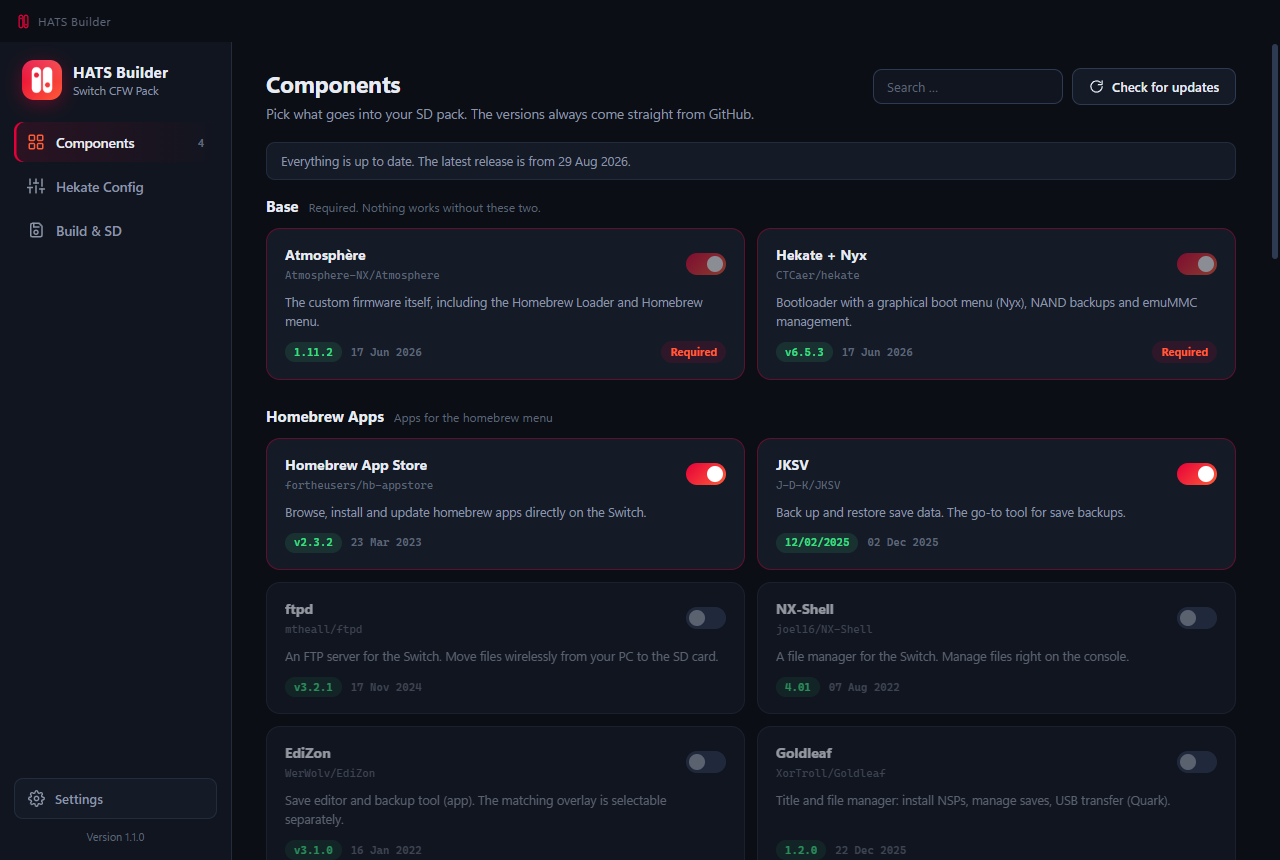
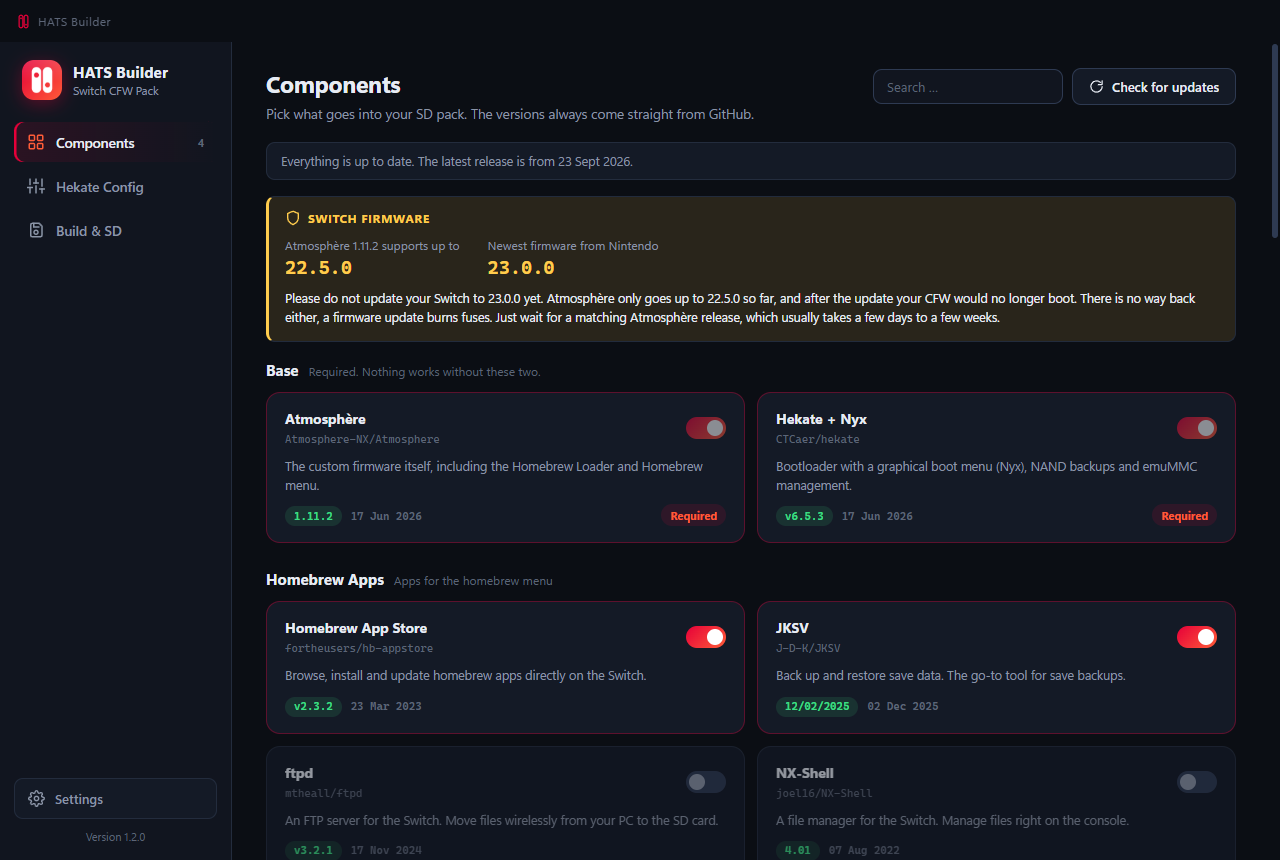
Firmware-Abgleich: zeigt, bis zu welcher Switch-Firmware Atmosphere reicht und was aktuell ist; Version 1.2.0
Ganz oben in der Komponenten-Ansicht steht jetzt ein Kasten mit zwei Zahlen:
bis zu welcher HOS-Version das aktuelle Atmosphere reicht, und welche Firmware
Nintendo zuletzt veroeffentlicht hat. Hinkt Atmosphere hinterher, wird daraus
eine Warnung mit dem Hinweis, die Konsole jetzt noch nicht zu aktualisieren.
Das ist keine Kleinigkeit: Ein Firmware-Update verbrennt Fuses und laesst sich
nicht zuruecknehmen, die CFW startet danach nicht mehr.

Die unterstuetzte Version steht in keinem maschinenlesbaren Feld, auch nicht
mehr im README von Atmosphere. Sie wird deshalb aus dem Release-Text gelesen,
wo seit jeher "Support was added for X.Y.Z." steht. parseSupportedHos nimmt
das Maximum aller Treffer, weil der Text auch aeltere Changelog-Abschnitte
mit aelteren Firmware-Nummern enthaelt.

Die neueste Firmware kommt aus dem Release-Tag von THZoria/NX_Firmware. Es
wird ausschliesslich die Versionsnummer ueber die API gelesen, nichts
heruntergeladen und nichts mitgeliefert.

Beide Abfragen laufen ueber die vorhandene GitHub-Schicht, profitieren also
von Cache und ETag. Scheitert eine davon, wird der andere Teil trotzdem
gezeigt, statt den Kasten ganz auszublenden.

Nebenbei ist der Versionsvergleich nach main/version.js gewandert, weil ihn
jetzt Updater und Firmware-Pruefung brauchen. updater.js exportiert isNewer
und parseVersion unveraendert weiter.

diff --git a/main/firmware.js b/main/firmware.js
@@ -1,0 +1,75 @@
+'use strict';
+
+// Vergleicht, bis zu welcher Switch-Firmware (HOS) Atmosphère reicht, mit der
+// Firmware, die Nintendo zuletzt veröffentlicht hat.
+//
+// Warum das wichtig ist: Atmosphère hinkt einer neuen Firmware immer ein paar
+// Tage bis Wochen hinterher. Wer seine Switch vorher aktualisiert, steht ohne
+// laufende CFW da, und zurück geht es nicht ohne Weiteres, weil ein Update
+// Fuses verbrennt. Die Zahl gehört also vor den Augen des Nutzers, bevor er
+// am Gerät etwas aktualisiert.
+//
+// Woher die beiden Angaben kommen:
+//   Atmosphère – aus dem Text des neuesten Releases. Das Projekt schreibt dort
+//                seit jeher "Support was added for X.Y.Z." Ein eigenes Feld
+//                dafür gibt es nicht, und das README nennt die Version nicht
+//                mehr. Deshalb der Griff in den Fließtext.
+//   Firmware   – aus dem Release-Tag von THZoria/NX_Firmware. Dort wird jede
+//                Firmware kurz nach Erscheinen als Release angelegt. Wir lesen
+//                ausschließlich die Versionsnummer über die API, es wird nichts
+//                heruntergeladen und nichts mitgeliefert.
+
+const github = require('./github');
+const { isNewer } = require('./version');
+
+const ATMOSPHERE_REPO = 'Atmosphere-NX/Atmosphere';
+const FIRMWARE_REPO = 'THZoria/NX_Firmware';
+
+// Holt die höchste Firmware-Version aus dem Release-Text heraus.
+// Der Text listet auch ältere Abschnitte auf ("And the following was changed
+// in 1.11.0"), darin stehen ältere Firmwares. Deshalb das Maximum und nicht
+// einfach den ersten Treffer.
+function parseSupportedHos(body) {
+  const treffer = String(body || '').matchAll(/support\s+was\s+added\s+for\s+(\d+\.\d+(?:\.\d+)?)/gi);
+  let hoechste = null;
+  for (const t of treffer) {
+    if (!hoechste || isNewer(t[1], hoechste)) hoechste = t[1];
+  }
+  return hoechste;
+}
+
+// Liefert den Stand für die Oberfläche. Schlägt eine der beiden Abfragen fehl,
+// wird der jeweils andere Teil trotzdem gemeldet, statt gar nichts zu zeigen.
+async function check({ force = false } = {}) {
+  const ergebnis = {
+    atmosphere: null, // Version von Atmosphère selbst
+    supported: null,  // höchste HOS-Version, die Atmosphère unterstützt
+    latest: null,     // neueste von Nintendo veröffentlichte HOS-Version
+    latestDate: null,
+    behind: false,    // true, wenn Atmosphère der Firmware hinterherhinkt
+  };
+
+  try {
+    const atmo = await github.fetchLatestRelease(ATMOSPHERE_REPO, { force });
+    ergebnis.atmosphere = atmo.tag || null;
+    ergebnis.supported = parseSupportedHos(atmo.body);
+  } catch {
+    /* ohne Atmosphère-Release bleibt der Abschnitt leer */
+  }
+
+  try {
+    const fw = await github.fetchLatestRelease(FIRMWARE_REPO, { force });
+    // Tags sind dort schlicht "23.0.0", ein führendes v kommt aber vor
+    ergebnis.latest = (fw.tag || '').replace(/^v/i, '') || null;
+    ergebnis.latestDate = fw.publishedAt || null;
+  } catch {
+    /* Firmware-Stand unbekannt, dann eben nur die unterstützte Version */
+  }
+
+  ergebnis.behind = Boolean(
+    ergebnis.supported && ergebnis.latest && isNewer(ergebnis.latest, ergebnis.supported)
+  );
+  return ergebnis;
+}
+
+module.exports = { check, parseSupportedHos, ATMOSPHERE_REPO, FIRMWARE_REPO };

diff --git a/renderer/app.js b/renderer/app.js
@@ -10,6 +10,7 @@ const state = {
   entryHints: {},
   settings: null,
   releases: {},
+  hos: null,
   building: false,
   copying: false,
   drives: [],
@@ -86,6 +87,7 @@ function setLanguage(lang) {
   // Alle dynamisch erzeugten Bereiche neu aufbauen
   renderComponents();
   renderReleaseStatus();
+  renderHos();
   renderHekate();
   renderBuildSummary();
   renderDrives();
@@ -321,6 +323,42 @@ function renderReleaseStatus() {
       .sort((a, b) => b.publishedAt.localeCompare(a.publishedAt))[0];
     status.textContent = newest ? t('status.allCurrent', fmtDate(newest.publishedAt)) : t('status.allCurrentNoDate');
   }
+}
+
+// ── Firmware-Abgleich ───────────────────────────────────────────────────────
+// Zeigt, bis zu welcher Switch-Firmware Atmosphère reicht und was Nintendo
+// zuletzt veröffentlicht hat. Hinkt Atmosphère hinterher, wird daraus eine
+// Warnung, denn ein Firmware-Update verbrennt Fuses und lässt sich nicht
+// zurücknehmen.
+function renderHos() {
+  const panel = $('#hos-panel');
+  const info = state.hos;
+  // Ohne wenigstens eine der beiden Zahlen sagt der Kasten nichts Nützliches
+  if (!info || (!info.supported && !info.latest)) {
+    panel.hidden = true;
+    return;
+  }
+  panel.hidden = false;
+  panel.classList.toggle('warn', Boolean(info.behind));
+
+  $('#hos-supported-label').textContent = info.atmosphere
+    ? t('hos.supportedLabel', info.atmosphere)
+    : t('hos.supportedLabelPlain');
+  $('#hos-supported').textContent = info.supported || t('hos.unknown');
+  $('#hos-latest').textContent = info.latest || t('hos.unknown');
+
+  if (info.behind) $('#hos-hint').textContent = t('hos.behind', info.latest, info.supported);
+  else if (info.supported && info.latest) $('#hos-hint').textContent = t('hos.ok');
+  else $('#hos-hint').textContent = t('hos.partial');
+}
+
+async function checkHos(force) {
+  try {
+    state.hos = await api.checkHos(force);
+  } catch {
+    state.hos = null;
+  }
+  renderHos();
 }
 
 async function checkReleases(force) {
@@ -919,7 +957,7 @@ async function main() {
 
   api.onProgress(handleProgress);
 
-  $('#btn-check-updates').addEventListener('click', () => checkReleases(true));
+  $('#btn-check-updates').addEventListener('click', () => { checkReleases(true); checkHos(true); });
 
   const tokenInput = $('#github-token');
   tokenInput.value = state.settings.githubToken || '';
@@ -995,6 +1033,7 @@ async function main() {
 
   // Beim Start automatisch die aktuellen Versionen laden (aus Cache oder GitHub)
   checkReleases(false);
+  checkHos(false);
   // ... und still nachsehen, ob es eine neuere HATS-Builder-Version gibt
   checkForUpdate();
 

diff --git a/renderer/i18n.js b/renderer/i18n.js
@@ -67,6 +67,16 @@ window.I18N = {
     'status.allCurrentNoDate': 'Alles auf dem neuesten Stand.',
     'status.checkFailed': 'Der Versions-Check hat nicht geklappt. {0}',
 
+    'hos.title': 'Switch-Firmware',
+    'hos.supportedLabel': 'Atmosphère {0} unterstützt bis',
+    'hos.supportedLabelPlain': 'Atmosphère unterstützt bis',
+    'hos.latestLabel': 'Neueste Firmware von Nintendo',
+    'hos.unknown': 'unbekannt',
+    'hos.behind':
+      'Aktualisiere deine Switch jetzt bitte nicht auf {0}. Atmosphère reicht bisher nur bis {1}, danach würde die CFW nicht mehr starten. Zurück kommst du nicht, ein Firmware-Update verbrennt Fuses. Warte einfach, bis eine passende Atmosphère-Version erscheint, meist dauert das ein paar Tage bis Wochen.',
+    'hos.ok': 'Atmosphère ist auf dem Stand der aktuellen Firmware. Von dieser Seite spricht nichts gegen ein Update deiner Switch.',
+    'hos.partial': 'Einer der beiden Stände ließ sich gerade nicht abfragen. Prüf das lieber selbst nach, bevor du deine Switch aktualisierst.',
+
     'hekate.title': 'Hekate Boot-Menü',
     'hekate.subtitleHtml': 'Diese Einstellungen landen als <code>bootloader/hekate_ipl.ini</code> in deinem Pack.',
     'hekate.bootEntries': 'Boot-Einträge',
@@ -211,6 +221,16 @@ window.I18N = {
     'status.allCurrent': 'Everything is up to date. The latest release is from {0}.',
     'status.allCurrentNoDate': 'Everything is up to date.',
     'status.checkFailed': "The version check didn't work. {0}",
+
+    'hos.title': 'Switch firmware',
+    'hos.supportedLabel': 'Atmosphère {0} supports up to',
+    'hos.supportedLabelPlain': 'Atmosphère supports up to',
+    'hos.latestLabel': 'Newest firmware from Nintendo',
+    'hos.unknown': 'unknown',
+    'hos.behind':
+      'Please do not update your Switch to {0} yet. Atmosphère only goes up to {1} so far, and after the update your CFW would no longer boot. There is no way back either, a firmware update burns fuses. Just wait for a matching Atmosphère release, which usually takes a few days to a few weeks.',
+    'hos.ok': 'Atmosphère has caught up with the current firmware. From that side there is nothing speaking against updating your Switch.',
+    'hos.partial': 'One of the two versions could not be checked right now. Better verify it yourself before you update your Switch.',
 
     'hekate.title': 'Hekate Boot Menu',
     'hekate.subtitleHtml': 'These settings are written as <code>bootloader/hekate_ipl.ini</code> in your pack.',

diff --git a/renderer/styles.css b/renderer/styles.css
@@ -319,6 +319,32 @@ h1 { font-size: 23px; font-weight: 700; letter-spacing: -0.3px; }
 .release-status.info { background: var(--card); color: var(--text-dim); border: 1px solid var(--border); }
 .release-status.warn { background: var(--yellow-soft); color: var(--yellow); }
 
+/* ── Firmware-Abgleich Atmosphère gegen HOS ────────────────────────────── */
+.hos-panel {
+  background: var(--card);
+  border: 1px solid var(--border);
+  border-left: 3px solid var(--green);
+  border-radius: var(--radius-sm);
+  padding: 13px 16px;
+  margin-bottom: 18px;
+}
+/* Hinkt Atmosphère hinterher, wird der Kasten zum Warnhinweis */
+.hos-panel.warn { border-left-color: var(--yellow); background: var(--yellow-soft); }
+.hos-head {
+  display: flex; align-items: center; gap: 7px;
+  font-size: 12px; font-weight: 700;
+  text-transform: uppercase; letter-spacing: 0.6px;
+  color: var(--text-faint);
+  margin-bottom: 11px;
+}
+.hos-panel.warn .hos-head { color: var(--yellow); }
+.hos-versions { display: flex; flex-wrap: wrap; gap: 28px; }
+.hos-label { color: var(--text-dim); font-size: 12px; margin-bottom: 3px; }
+.hos-value { font-family: var(--mono); font-size: 19px; font-weight: 700; color: var(--text); }
+.hos-panel.warn .hos-value { color: var(--yellow); }
+.hos-hint { color: var(--text-dim); font-size: 12.5px; line-height: 1.55; margin-top: 11px; }
+.hos-panel.warn .hos-hint { color: var(--text); }
+
 .comp-section { margin-bottom: 26px; }
 .comp-section-head { display: flex; align-items: baseline; gap: 10px; margin-bottom: 12px; }
 .comp-section-head h2 { font-size: 15px; font-weight: 700; }

diff --git a/renderer/index.html b/renderer/index.html
@@ -78,6 +78,26 @@
           </div>
         </header>
         <div class="release-status" id="release-status"></div>
+
+        <!-- Firmware-Abgleich: bis wohin reicht Atmosphère, was ist aktuell -->
+        <div class="hos-panel" id="hos-panel" hidden>
+          <div class="hos-head">
+            <svg viewBox="0 0 24 24" width="16" height="16" fill="none" stroke="currentColor" stroke-width="2" stroke-linecap="round" stroke-linejoin="round"><path d="M12 22s8-4 8-10V5l-8-3-8 3v7c0 6 8 10 8 10z"/></svg>
+            <span data-i18n="hos.title">Switch-Firmware</span>
+          </div>
+          <div class="hos-versions">
+            <div class="hos-box">
+              <div class="hos-label" id="hos-supported-label"></div>
+              <div class="hos-value" id="hos-supported"></div>
+            </div>
+            <div class="hos-box">
+              <div class="hos-label" data-i18n="hos.latestLabel">Neueste Firmware von Nintendo</div>
+              <div class="hos-value" id="hos-latest"></div>
+            </div>
+          </div>
+          <div class="hos-hint" id="hos-hint"></div>
+        </div>
+
         <div id="component-sections"></div>
       </section>
 

diff --git a/main/updater.js b/main/updater.js
@@ -14,25 +14,10 @@ const { mt } = require('./messages');
 // Repo, aus dem die App ihre eigenen Updates bezieht.
 const REPO = 'Mitoxe113/HATS-Builder';
 
-// "v1.2.3" oder "1.2.3" wird zu [1, 2, 3]
-function parseVersion(value) {
-  return String(value || '')
-    .replace(/^v/i, '')
-    .split('.')
-    .map((part) => Number.parseInt(part, 10) || 0);
-}
-
-// Zahlenweiser Vergleich, damit 1.0.10 korrekt neuer ist als 1.0.9
-function isNewer(candidate, current) {
-  const a = parseVersion(candidate);
-  const b = parseVersion(current);
-  for (let i = 0; i < Math.max(a.length, b.length); i++) {
-    const x = a[i] || 0;
-    const y = b[i] || 0;
-    if (x !== y) return x > y;
-  }
-  return false;
-}
+// Der Versionsvergleich steckt in version.js, weil ihn auch die
+// Firmware-Prüfung braucht. Hier weiterhin mit exportiert, damit die
+// bestehenden Aufrufer nichts merken.
+const { parseVersion, isNewer } = require('./version');
 
 // Passende Datei zur laufenden Installation: portable oder Installer.
 function pickAsset(assets, portable) {

diff --git a/main/version.js b/main/version.js
@@ -1,0 +1,28 @@
+'use strict';
+
+// Versionsvergleich für Zeichenketten wie "1.11.2", "v1.0.10" oder "22.5.0".
+// Wird sowohl für das Selbst-Update der App als auch für den Abgleich zwischen
+// Atmosphère und der Switch-Firmware gebraucht.
+
+// "v1.2.3" oder "1.2.3" wird zu [1, 2, 3]
+function parseVersion(value) {
+  return String(value || '')
+    .replace(/^v/i, '')
+    .split('.')
+    .map((part) => Number.parseInt(part, 10) || 0);
+}
+
+// Zahlenweiser Vergleich, damit 1.0.10 korrekt neuer ist als 1.0.9.
+// Ein reiner Textvergleich würde hier das Falsche liefern.
+function isNewer(candidate, current) {
+  const a = parseVersion(candidate);
+  const b = parseVersion(current);
+  for (let i = 0; i < Math.max(a.length, b.length); i++) {
+    const x = a[i] || 0;
+    const y = b[i] || 0;
+    if (x !== y) return x > y;
+  }
+  return false;
+}
+
+module.exports = { parseVersion, isNewer };

diff --git a/main/main.js b/main/main.js
@@ -8,6 +8,7 @@ const github = require('./github');
 const builder = require('./builder');
 const sd = require('./sd');
 const updater = require('./updater');
+const firmware = require('./firmware');
 const messages = require('./messages');
 const { mt } = messages;
 const { DEFAULT_HEKATE, ENTRY_ORDER, ENTRY_TEMPLATES, generateIni, normalize } = require('./hekate');
@@ -229,6 +230,16 @@ function registerIpc() {
       })
     );
     return results;
+  });
+
+  // Bis zu welcher Switch-Firmware reicht Atmosphère, und was ist aktuell?
+  // Scheitert die Abfrage, bleibt der Kasten in der Oberfläche einfach leer.
+  ipcMain.handle('hos:check', async (_e, opts) => {
+    try {
+      return await firmware.check({ force: Boolean(opts && opts.force) });
+    } catch {
+      return null;
+    }
   });
 
   ipcMain.handle('hekate:preview', (_e, config) => generateIni(config));

diff --git a/main/preload.js b/main/preload.js
@@ -6,6 +6,7 @@ contextBridge.exposeInMainWorld('api', {
   init: () => ipcRenderer.invoke('app:init'),
   saveSettings: (partial) => ipcRenderer.invoke('settings:save', partial),
   checkReleases: (force = false) => ipcRenderer.invoke('releases:check', { force }),
+  checkHos: (force = false) => ipcRenderer.invoke('hos:check', { force }),
   previewHekateIni: (config) => ipcRenderer.invoke('hekate:preview', config),
   chooseOutputDir: () => ipcRenderer.invoke('pack:chooseOutput'),
   buildPack: (args) => ipcRenderer.invoke('pack:build', args),

diff --git a/README.md b/README.md
@@ -19,6 +19,8 @@ Die Oberfläche gibt es auf Deutsch und Englisch, umschalten kannst du sie in de
 
 Um Abhängigkeiten musst du dich nicht kümmern. Schaltest du FPSLocker an, kommt SaltyNX von allein mit. Und wo es darauf ankommt, sagt dir die App, womit du es zu tun hast: sys-patch trägt ein Sigpatch-Kennzeichen, weil es Signaturprüfungen umgeht.
 
+Ganz oben siehst du außerdem, bis zu welcher Switch-Firmware Atmosphère gerade reicht und welche Firmware Nintendo zuletzt herausgebracht hat. Hinkt Atmosphère hinterher, wird der Kasten zur Warnung. Das ist der Moment, in dem du deine Konsole besser noch nicht aktualisierst, denn ein Firmware-Update verbrennt Fuses und lässt sich nicht zurücknehmen.
+
 **Hekate-Config.** Das Boot-Menü, so wie du es haben willst. Welcher Eintrag automatisch startet, wie lange das Logo stehen bleibt, ob Auto-NoGC an ist. Rechts läuft eine Live-Vorschau der `hekate_ipl.ini` mit, du siehst also beim Klicken, was am Ende auf der Karte landet.
 
 Weiter unten blockst du Nintendos Server per DNS. Für die emuMMC ist das an, für die sysMMC aus. Schaltest du es ab, fragt die App noch einmal nach, denn eine ungeschützte Konsole wird sehr wahrscheinlich gesperrt.
@@ -71,6 +73,8 @@ The interface comes in German and English, and you can switch it in the settings
 **Components.** This is where you put your pack together. Over 30 things are on offer, from Atmosphère and Hekate through homebrew apps to the Tesla overlays. There's a search box, and clicking a version number shows you right away what changed in that release.
 
 Dependencies aren't your problem. Turn on FPSLocker and SaltyNX comes along by itself. And where it matters, the app tells you what you're dealing with: sys-patch carries a sigpatch label, because it bypasses signature checks.
+
+Right at the top you also see how far Atmosphère currently goes in terms of Switch firmware, and which firmware Nintendo released last. When Atmosphère is behind, the box turns into a warning. That's the moment to hold off on updating your console, because a firmware update burns fuses and cannot be undone.
 
 **Hekate Config.** The boot menu, the way you want it. Which entry boots on its own, how long the logo stays up, whether Auto-NoGC is on. A live preview of the `hekate_ipl.ini` runs alongside, so you see what ends up on the card while you click.
 
